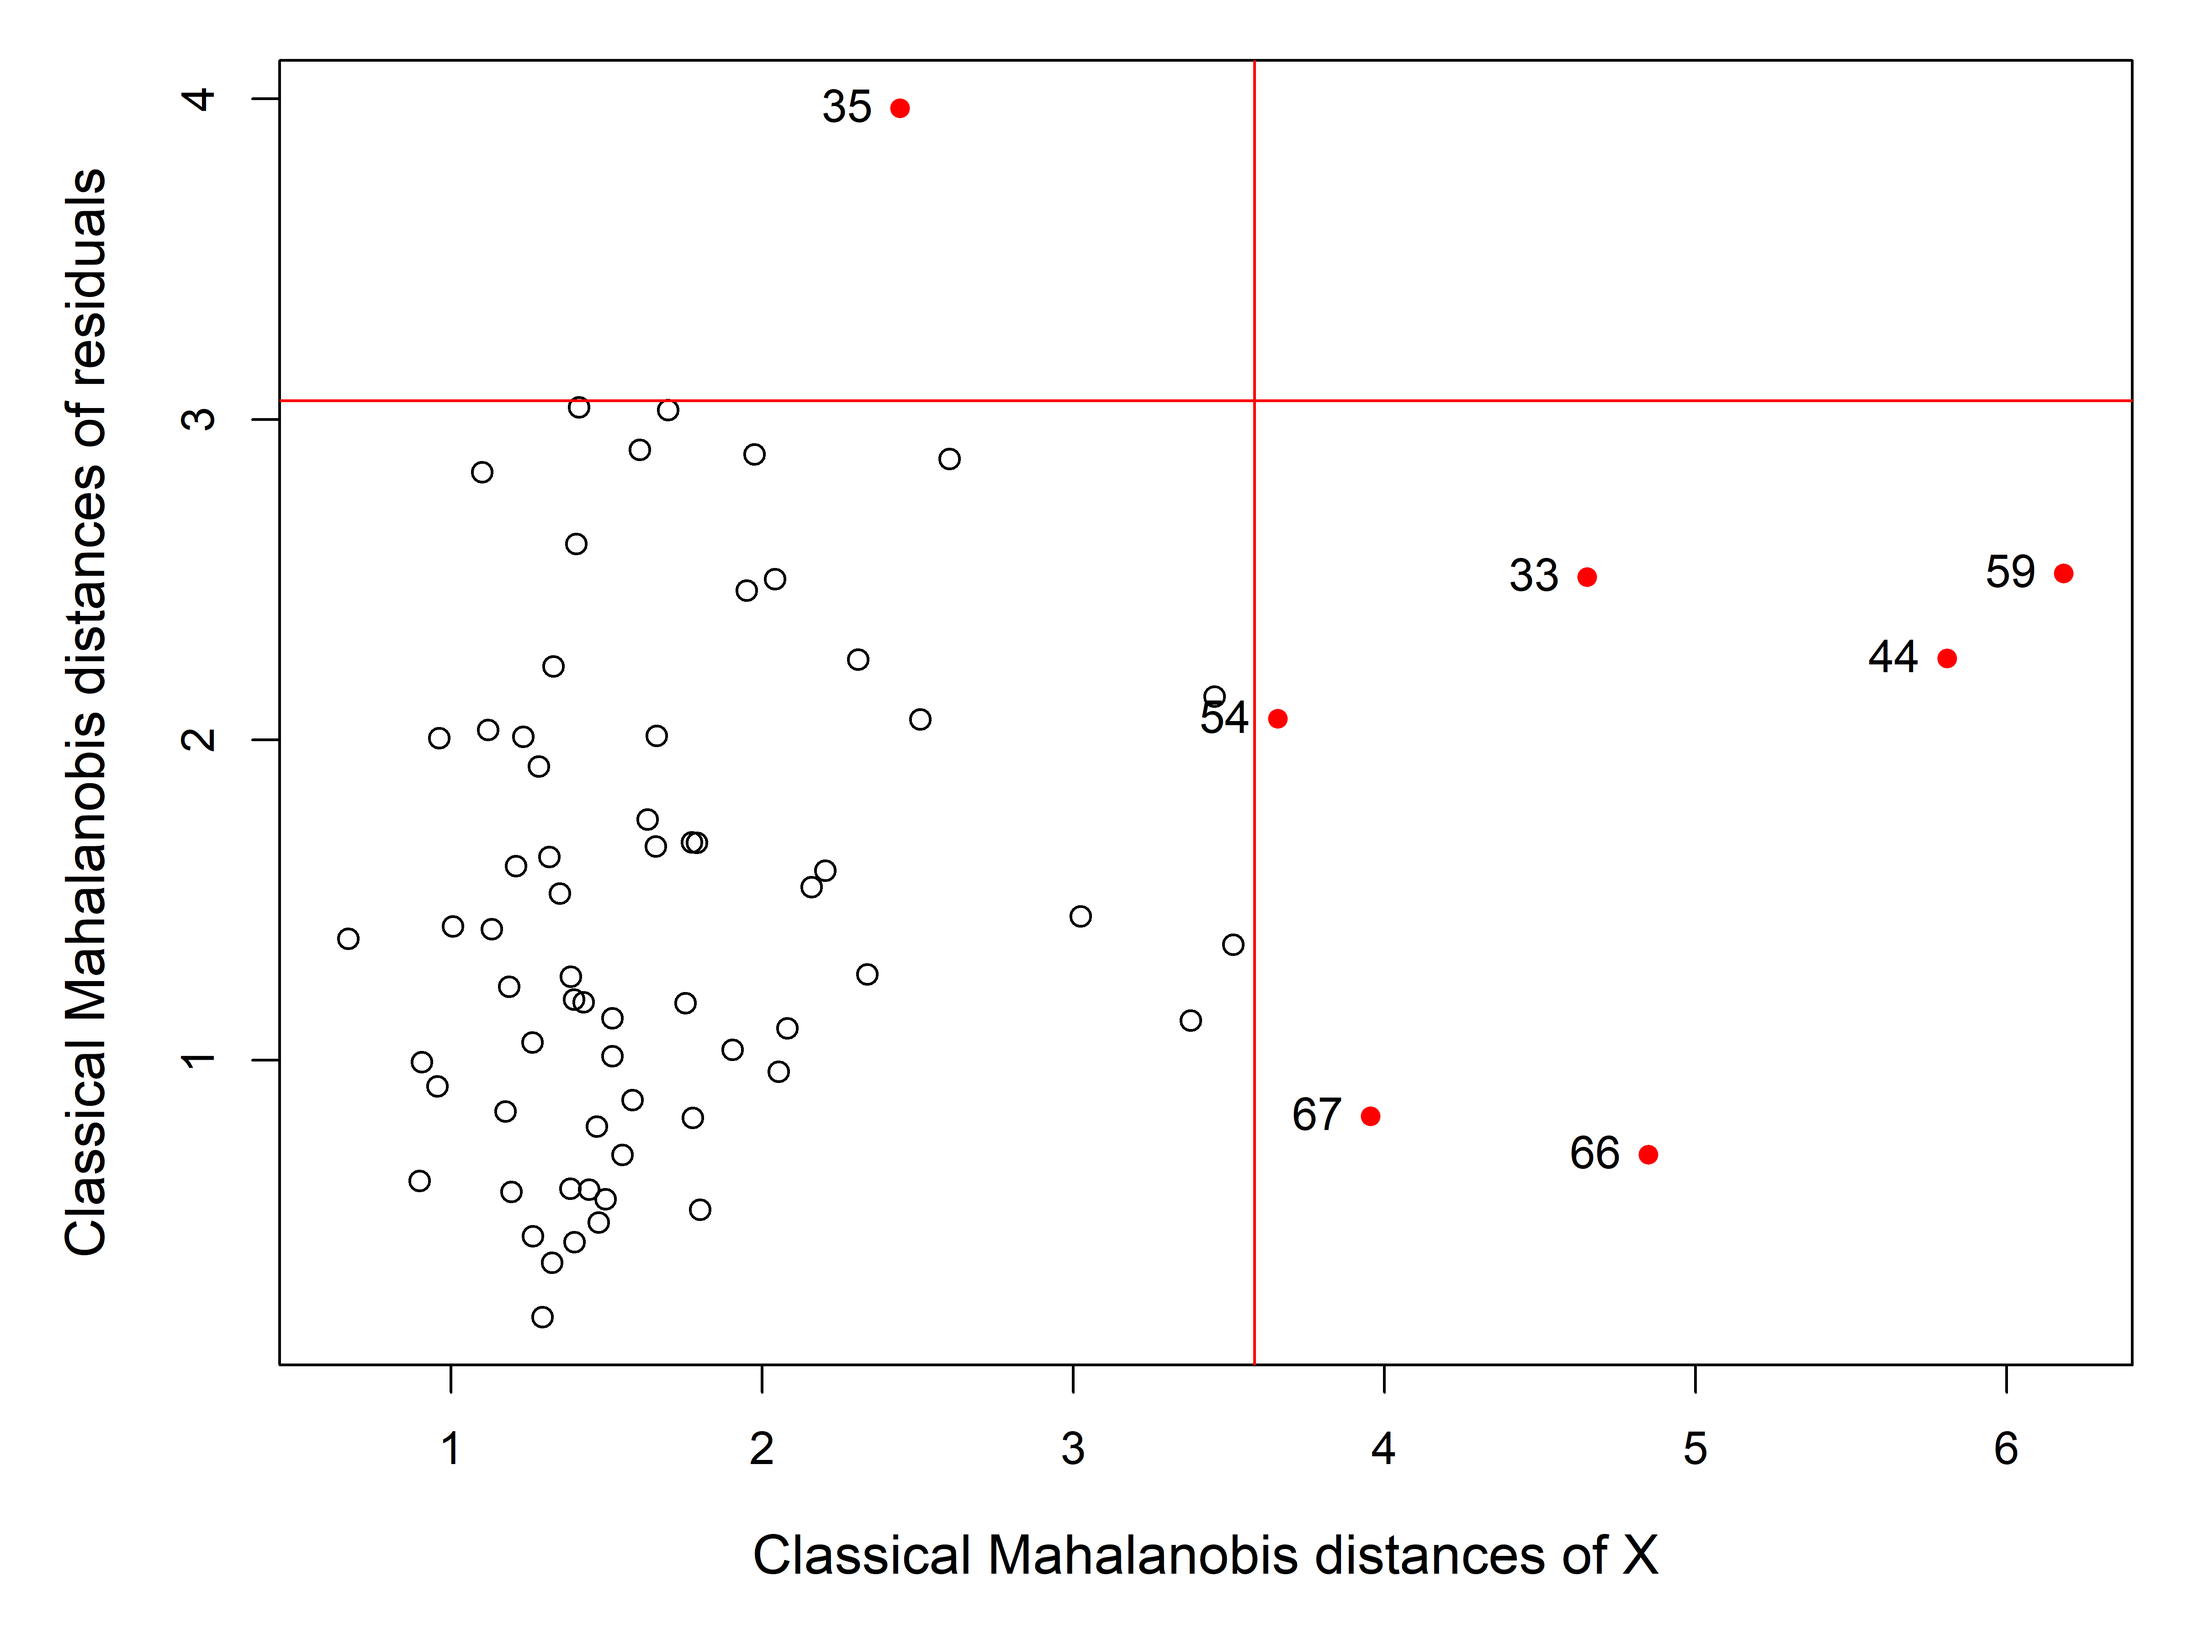
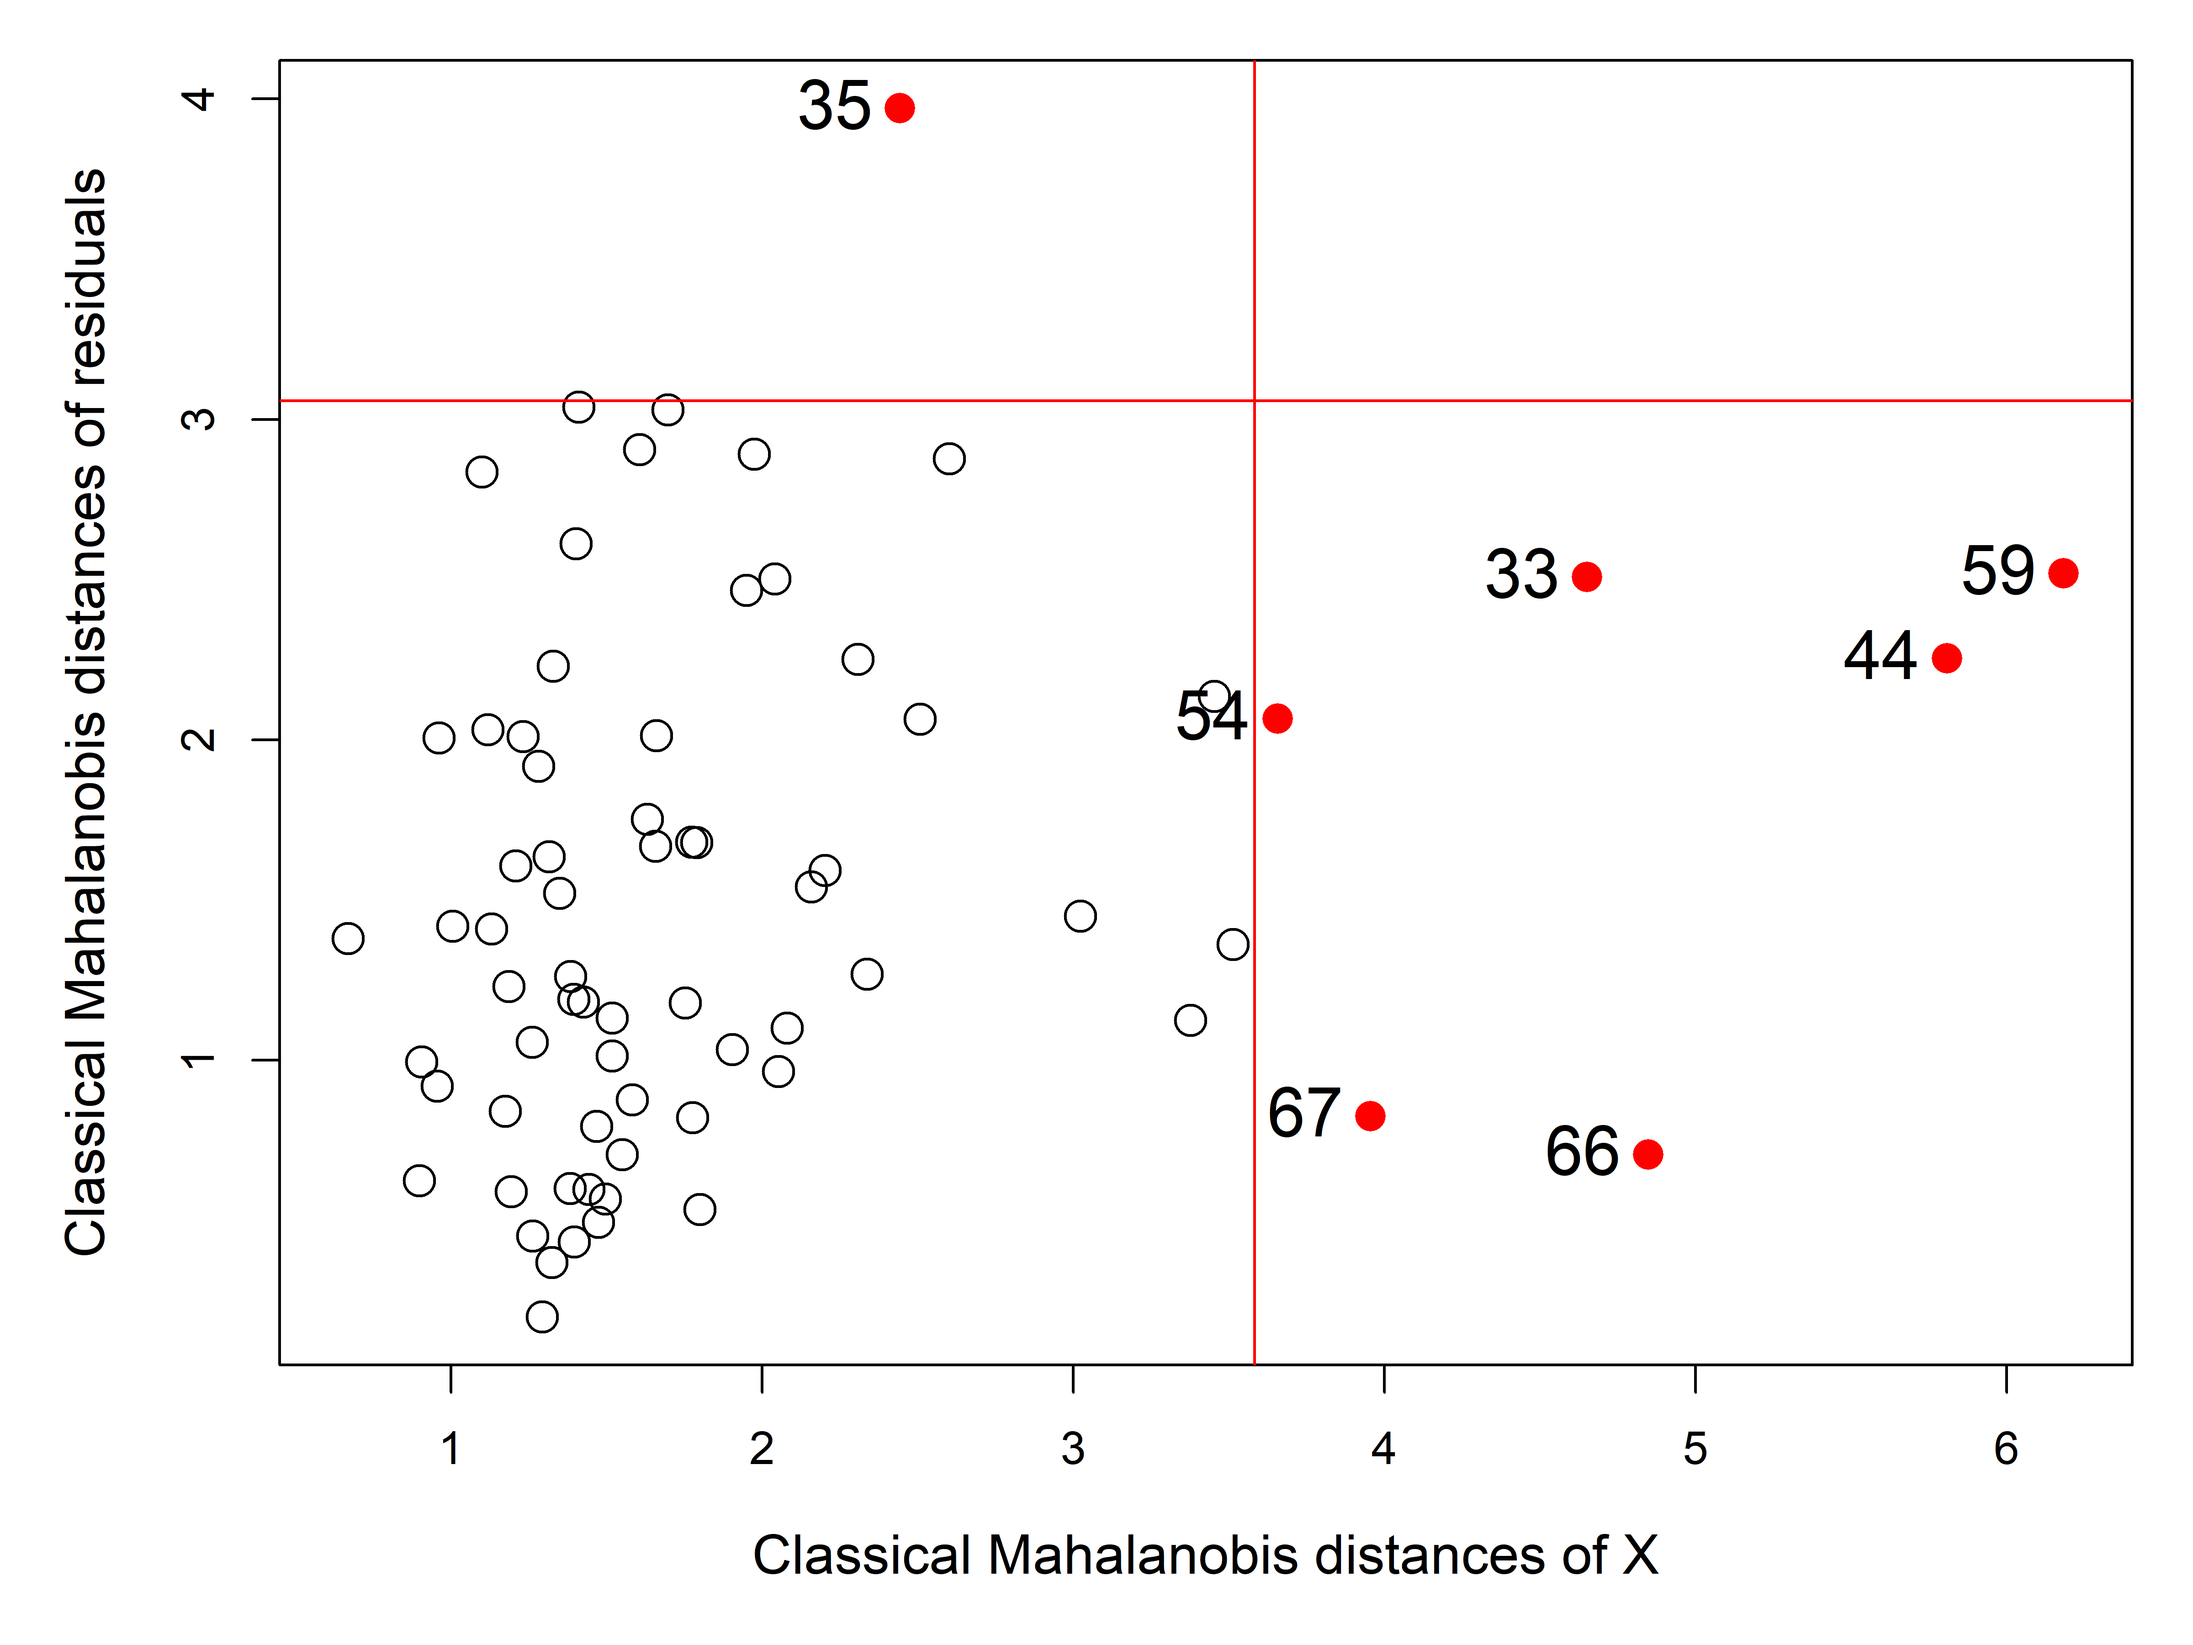
Ch10 add to distplot discussion

diff --git a/docs/10-mlm-review.html b/docs/10-mlm-review.html
@@ -428,7 +428,7 @@ window.Quarto = {
 <span><span class="kw"><a href="https://rdrr.io/r/base/library.html">library</a></span><span class="op">(</span><span class="va"><a href="https://r-forge.r-project.org/projects/car/">car</a></span><span class="op">)</span></span>
 <span><span class="kw"><a href="https://rdrr.io/r/base/library.html">library</a></span><span class="op">(</span><span class="va"><a href="https://dplyr.tidyverse.org">dplyr</a></span><span class="op">)</span></span>
 <span><span class="kw"><a href="https://rdrr.io/r/base/library.html">library</a></span><span class="op">(</span><span class="va"><a href="https://ggplot2.tidyverse.org">ggplot2</a></span><span class="op">)</span></span>
-<span><span class="kw"><a href="https://rdrr.io/r/base/library.html">library</a></span><span class="op">(</span><span class="va"><a href="http://friendly.github.io/heplots">heplots</a></span><span class="op">)</span></span>
+<span><span class="kw"><a href="https://rdrr.io/r/base/library.html">library</a></span><span class="op">(</span><span class="va"><a href="https://friendly.github.io/heplots/">heplots</a></span><span class="op">)</span></span>
 <span><span class="kw"><a href="https://rdrr.io/r/base/library.html">library</a></span><span class="op">(</span><span class="va"><a href="https://patchwork.data-imaginist.com">patchwork</a></span><span class="op">)</span></span>
 <span><span class="kw"><a href="https://rdrr.io/r/base/library.html">library</a></span><span class="op">(</span><span class="va"><a href="https://tidyr.tidyverse.org">tidyr</a></span><span class="op">)</span></span>
 <span><span class="kw"><a href="https://rdrr.io/r/base/library.html">library</a></span><span class="op">(</span><span class="va"><a href="https://github.com/friendly/matlib">matlib</a></span><span class="op">)</span></span>
@@ -1883,11 +1883,12 @@ Figure&nbsp;10.15: <span class="math inline">\(\chi^2\)</span> QQ plot of the re
 <p><code><a href="https://rdrr.io/pkg/MVN/man/mvn.html">mvn()</a></code> also provides a variety of tests for univariate normality for each of the response variables. These are all OK.</p>
 </section><section id="distance-plot" class="level3" data-number="10.6.2"><h3 data-number="10.6.2" class="anchored" data-anchor-id="distance-plot">
 <span class="header-section-number">10.6.2</span> Distance plot</h3>
-<p>Another useful screening plot (suggested by <span class="citation" data-cites="Rousseeuw2004">Rousseeuw et al. (<a href="95-references.html#ref-Rousseeuw2004" role="doc-biblioref">2004</a>)</span>) is a plot of Mahalanobis distances of the predictors against the Mahalanobis distances of the corresponding residuals for a fitted model. This diagnostic plot combines the information on leverage points and regression outliers. This is much more useful than plotting them individually as in a <span class="math inline">\(\chi^2\)</span> QQ plot. Moreover, plotting them against each other is visually informative, because it places the leverage points (unusual in <span class="math inline">\(\mathbf{X}\)</span>}) and the outliers (unusual in <span class="math inline">\(\mathbf{Y}\)</span>}) in different regions of the plot. To judge notably “large” values, they suggest using cutoffs of <span class="math inline">\(\sqrt{\chi^2_{p}(0.975)}\)</span> for the predictor distances and <span class="math inline">\(\sqrt{\chi^2_{q}(0.975)}\)</span> for the residuals.</p>
+<p>Another useful screening plot (suggested by <span class="citation" data-cites="Rousseeuw2004">Rousseeuw et al. (<a href="95-references.html#ref-Rousseeuw2004" role="doc-biblioref">2004</a>)</span>) is a plot of Mahalanobis distances of the predictors against the Mahalanobis distances of the corresponding residuals for a fitted model. This diagnostic plot combines the information on leverage points and regression outliers in an interesting way.</p>
+<p>It is much more useful than plotting them individually (against the theoretical values) as in a <span class="math inline">\(\chi^2\)</span> QQ plot. Moreover, plotting them against each other is visually informative, because it places the leverage points (unusual in <span class="math inline">\(\mathbf{X}\)</span>}) and the outliers (unusual in <span class="math inline">\(\mathbf{Y}\)</span>}) in <em>different regions</em> of the plot. To judge notably “large” values, they suggest using cutoffs of <span class="math inline">\(\sqrt{\chi^2_{p}(0.975)}\)</span> for the predictor distances and <span class="math inline">\(\sqrt{\chi^2_{q}(0.975)}\)</span> for the residuals.</p>
 <p>Such plots are produced by <code>heplots::distPlot()</code>. Running this on the <code>school.mod</code> model gives <a href="#fig-school-distplot" class="quarto-xref">Figure&nbsp;<span>10.16</span></a>. Points beyond the horizontal and vertical cutoff values are labeled with their case numbers.</p>
 <div class="cell" data-layout-align="center">
-<div class="sourceCode" id="cb55" data-source-line-numbers="nil" data-code-line-numbers="nil"><pre class="downlit sourceCode r code-with-copy"><code class="sourceCode R"><span><span class="fu"><a href="https://friendly.github.io/heplots/reference/distancePlot.html">distancePlot</a></span><span class="op">(</span><span class="va">school.mod</span>, cex.lab <span class="op">=</span> <span class="fl">1.2</span><span class="op">)</span></span>
-<span><span class="co">#&gt; 0.975 distance cutoffs: 3.58 3.06</span></span></code><button title="Copy to Clipboard" class="code-copy-button"><i class="bi"></i></button></pre></div>
+<div class="sourceCode" id="cb55" data-source-line-numbers="nil" data-code-line-numbers="nil"><pre class="downlit sourceCode r code-with-copy"><code class="sourceCode R"><span><span class="fu"><a href="https://friendly.github.io/heplots/reference/distancePlot.html">distancePlot</a></span><span class="op">(</span><span class="va">school.mod</span>, cex <span class="op">=</span> <span class="fl">1.5</span>, cex.lab <span class="op">=</span> <span class="fl">1.2</span><span class="op">)</span></span>
+<span><span class="co">#&gt; 0.975 X, Y distance cutoffs: 3.58 3.06</span></span></code><button title="Copy to Clipboard" class="code-copy-button"><i class="bi"></i></button></pre></div>
 <div class="cell-output-display">
 <div id="fig-school-distplot" class="quarto-float quarto-figure quarto-figure-center anchored" data-fig-align="center">
 <figure class="quarto-float quarto-float-fig figure"><div aria-describedby="fig-school-distplot-caption-0ceaefa1-69ba-4598-a22c-09a6ac19f8ca">
@@ -1900,8 +1901,10 @@ Figure&nbsp;10.16: Plot of Mahalanobis distances of the least squares residuals 
 </div>
 </div>
 <p>Most of the points identified in the <span class="math inline">\(\chi^2\)</span> QQ plot <a href="#fig-schooldata-cqplot" class="quarto-xref">Figure&nbsp;<span>10.13</span></a> are labeled here. Cases 44 and 59 are high leverage points with large <span class="math inline">\(\mathbf{X}\)</span> distances. Case 35 is the only one beyond the cutoff for residuals. Interestingly, case 66 appeared near 35 in <a href="#fig-schooldata-cqplot" class="quarto-xref">Figure&nbsp;<span>10.13</span></a>, but is unusual for a different reason as we can see in <a href="#fig-school-distplot" class="quarto-xref">Figure&nbsp;<span>10.16</span></a>.</p>
+<p><span class="citation" data-cites="Rousseeuw2004">Rousseeuw et al. (<a href="95-references.html#ref-Rousseeuw2004" role="doc-biblioref">2004</a>)</span> also suggested methods of <strong>robust multivariate regression</strong> using robust estimates of location and scatter rather than the classical <span class="math inline">\(\overline{\mathbf{y}}\)</span> and <span class="math inline">\(\mathbf{S}\)</span>. The <em>minimum covariance determinant (MCD)</em> estimator is a robust estimator with high breakdown value and bounded influence. It looks for the subset of size <span class="math inline">\(h\)</span>, whose covariance matrix has the smallest determinant, where <span class="math inline">\(\lceil n/2 \rceil &lt; h &lt; n\)</span> controls the robustness. The <code><a href="https://friendly.github.io/heplots/reference/distancePlot.html">distancePlot()</a></code> function implements this, as well as a <em>minimum variance ellipse (MVE)</em> method. Some robust methods are illustrated in <a href="13-infl-robust.html#sec-robust-estimation" class="quarto-xref"><span>Section 13.5</span></a>.</p>
 </section><section id="multivariate-influence" class="level3" data-number="10.6.3"><h3 data-number="10.6.3" class="anchored" data-anchor-id="multivariate-influence">
 <span class="header-section-number">10.6.3</span> Multivariate influence</h3>
+<p><strong>TODO</strong> Sort out coverage here vs. <a href="13-infl-robust.html" class="quarto-xref"><span>Chapter 13</span></a></p>
 <p>Again, what we see in simple scatterplots can be misleading because they ignore all the other variables in a model. But looking back after fitting a model and examining diagnostic plots can often be illuminating. Among the ideas we inherit from univariate models, the influence of particular observations on the results of analysis should be high on your list.</p>
 <p>The multivariate extension of the diagnostic measures of leverage and influence, and influence plots (<a href="06-linear_models-plots.html#sec-leverage" class="quarto-xref"><span>Section 6.6</span></a>) is provided by the <span style="color: brown;"><strong>mvinfluence</strong></span> package <span class="citation" data-cites="R-mvinfluence">(<a href="95-references.html#ref-R-mvinfluence" role="doc-biblioref">Friendly, 2025</a>)</span>. The theory behind this is due to <span class="citation" data-cites="BarrettLing:92">Barrett &amp; Ling (<a href="95-references.html#ref-BarrettLing:92" role="doc-biblioref">1992</a>)</span> and better illustrated in <span class="citation" data-cites="Barrett:2003">Barrett (<a href="95-references.html#ref-Barrett:2003" role="doc-biblioref">2003</a>)</span>. Mathematical details of this generalization are given in <code><a href="http://friendly.github.io/mvinfluence/reference/mvinfluence-package.html">help("mvinfluence-package")</a></code>.</p>
 <p><a href="#fig-schoolmod-infl" class="quarto-xref">Figure&nbsp;<span>10.17</span></a> shows one form of an influence plot for the <code>school.mod</code> model. Because multiple response variables are involved, this plots a measure of the <em>squared</em> studentized residuals for each observation against a generalized version of hat values, so potentially “bad” observations appear in the upper left corner. The size of the bubble symbol is proportional to a generalization of Cook’s distance, the measure of influence based on the change in all coefficients if each case was deleted from the analysis.</p>

diff --git a/docs/11-mlm-viz.html b/docs/11-mlm-viz.html
@@ -406,7 +406,7 @@ window.Quarto = {
 <p>In this chapter I use the following packages. Load them now.</p>
 <div class="cell" data-layout-align="center">
 <div class="sourceCode" id="cb1" data-source-line-numbers="nil" data-code-line-numbers="nil"><pre class="downlit sourceCode r code-with-copy"><code class="sourceCode R"><span><span class="kw"><a href="https://rdrr.io/r/base/library.html">library</a></span><span class="op">(</span><span class="va"><a href="https://r-forge.r-project.org/projects/car/">car</a></span><span class="op">)</span></span>
-<span><span class="kw"><a href="https://rdrr.io/r/base/library.html">library</a></span><span class="op">(</span><span class="va"><a href="http://friendly.github.io/heplots">heplots</a></span><span class="op">)</span></span>
+<span><span class="kw"><a href="https://rdrr.io/r/base/library.html">library</a></span><span class="op">(</span><span class="va"><a href="https://friendly.github.io/heplots/">heplots</a></span><span class="op">)</span></span>
 <span><span class="kw"><a href="https://rdrr.io/r/base/library.html">library</a></span><span class="op">(</span><span class="va"><a href="https://github.com/friendly/candisc/">candisc</a></span><span class="op">)</span></span>
 <span><span class="kw"><a href="https://rdrr.io/r/base/library.html">library</a></span><span class="op">(</span><span class="va"><a href="https://ggplot2.tidyverse.org">ggplot2</a></span><span class="op">)</span></span>
 <span><span class="kw"><a href="https://rdrr.io/r/base/library.html">library</a></span><span class="op">(</span><span class="va"><a href="https://dplyr.tidyverse.org">dplyr</a></span><span class="op">)</span></span>
